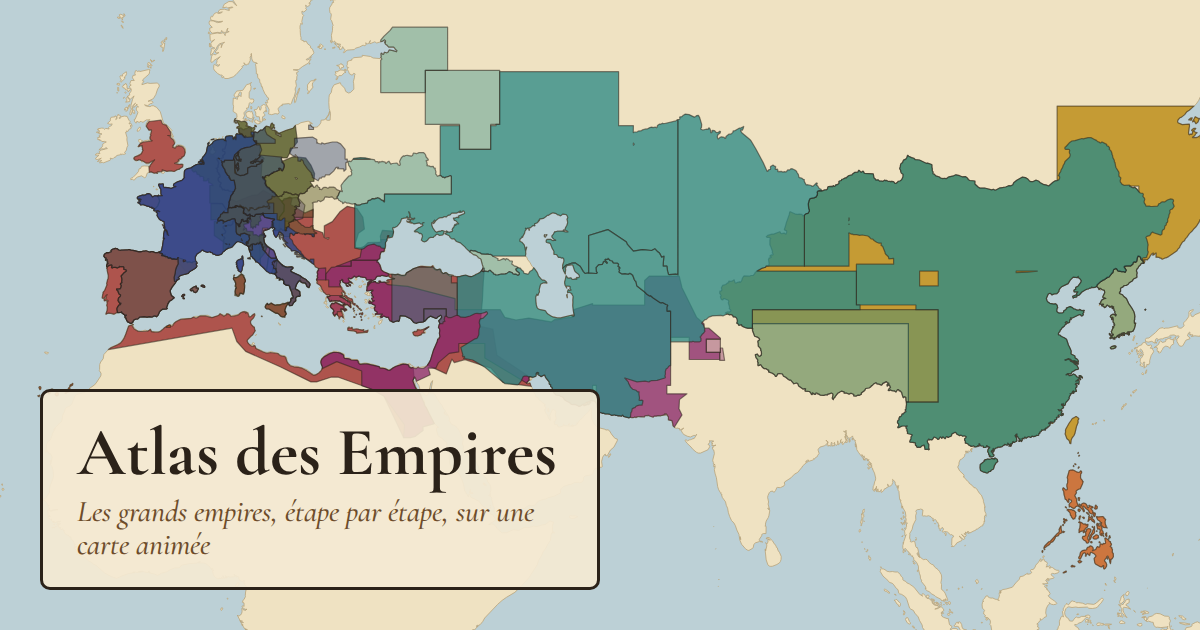
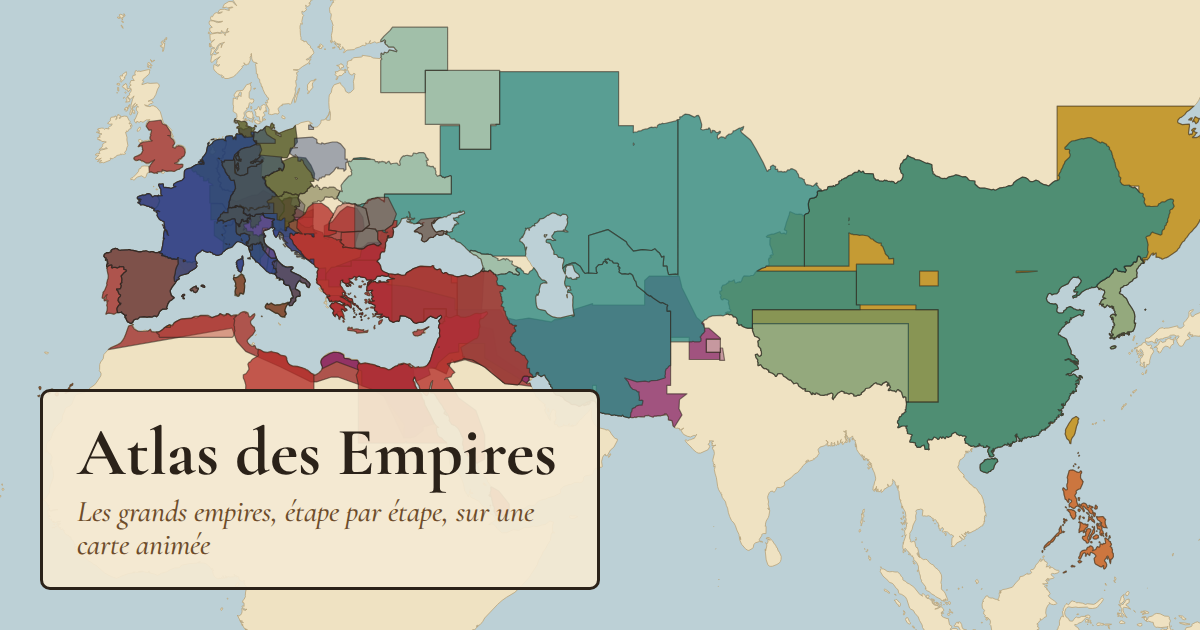
Ottomans 3/3: regions (18), share image, README/CLAUDE.md, skill pitfalls (vitest glob cache, Wikipedia checks)

Changed region(s): [[0.185, 0.3016, 0.4625, 0.6333], [0.1542, 0.5127, 0.2158, 0.5429]]

diff --git a/CLAUDE.md b/CLAUDE.md
@@ -17,13 +17,13 @@ Carte interactive (React + Vite + TS strict + MapLibre GL, relief 3D) qui montre
 - Dev : `npm run dev` (5173, ou config `dev` de `.claude/launch.json`). Prod locale : `npm run serve` (4173).
 - Avant de pousser, comme la CI : `npm run typecheck && npm run lint && npm run format:check && npm test && npm run test:data`, puis `npm run test:e2e` et `npm run check:bundle` si l'UI ou les imports changent.
 - Un seul test : `npx vitest run tests/unit/march.test.ts -t "<nom>"` ; `npx playwright test e2e/map.spec.ts -g "<nom>"`. Les e2e font `npm run build` puis servent sur 4173 (un serveur déjà lancé sur 4173 est réutilisé : il doit être à jour).
-- Données géo : `npm run fetch:data` (une fois, dans `.cache/`), puis `npm run build:data` ou `build:data:<id>` (rome, napoleon, china, mongols, espagne, saint-empire, carolingiens, alexandre). Relancer Vite ensuite.
+- Données géo : `npm run fetch:data` (une fois, dans `.cache/`), puis `npm run build:data` ou `build:data:<id>` (rome, napoleon, china, mongols, espagne, saint-empire, carolingiens, alexandre, ottomans). Relancer Vite ensuite.
 - Agent : `npm run agent` (port 8000), `npm run agent:test`.
 
 ## État (à mettre à jour en fin de session)
-- Sur `main` : Rome, Napoléon, Chine, Mongols, Espagne, Saint-Empire, Carolingiens, Alexandre (cartes de ces trois derniers composées depuis `overrides/<id>/_carto.json` par `scripts/empires/fromCarto.ts`, apogée forcée par `apogee` dans la timeline si la plus grande surface trompe) ; chatbot ADK (le « sage », Gemini ou Claude via `ATLAS_MODEL`) ; apogée sur la frise ; régiments animés (marche proportionnelle à la distance, `src/lib/march.ts`) ; empires contemporains ; carte du monde entière ; formulaire « Votre avis » (mailto) ; villes de départ des armées (`from`, `src/lib/origin.ts`) ; personnages illustres (`data/empires/<id>/people.json`, galerie, outil `chercher_personnage` du sage) ; monuments (`data/monuments.json`, calque, éventail des piles ; 7 merveilles antiques `wonder: true` : icône dorée hors piles, bandeau et filtre en galerie) ; routes commerciales (`data/routes.json`) et catastrophes/guerres (`data/disasters.json` ; zones de guerre découpées sur les terres par `scripts/build-disasters.ts` → `public/data/disaster-areas.geojson`, sous les territoires, masquées sur la carte d'un empire de `belligerentEmpires`) ; vue « Le monde en l'an X » (`src/world/`, `?world=1&year=`) ; quiz du sage (`agent/atlas_agent/quiz.py`, `src/quiz/`) ; comparaison de deux empires (`src/compare/`, `?compare=a,b`, profils `data/empires/<id>/profile.json`) ; inventions révolutionnaires (`data/empires/<id>/inventions.json`, calque, frise, galerie, comparaison, outil du sage) ; piles d'icônes monuments + inventions réunies dans un seul éventail (`src/map/pileFan.ts`) ; capitales des voisins (`data/capitals.json` → `build-neighbors`, points `kind: 'capital'`) et des empires contemporains (`capitalOf` de `data/cities.json`, anneau dans le calque des villes). Cadre des voisins de la Chine et des Mongols : `NEIGHBOR_BOUNDS` dans `scripts/build-neighbors.ts`. Régions survolables et cliquables à l'arrêt (`territory-hover`, `src/map/regionCard.ts`, textes `data/empires/<id>/regions.json`, liste via `scripts/list-regions.ts`). Téléphone (≤ 767 px, `useIsMobile`) : carte plein écran, barre unique avec menu ☰ (`src/panels/MobileMenu.tsx`), tiroir à trois crans (`src/panels/BottomSheet.tsx`), frise compacte (`Timeline` `compact`), voir `docs/ARCHITECTURE.md` §12 ter. Page « Tous les empires » (`src/empires/`, `?empires=1&e=`). Mode « Devine la suite » (`src/guess/`, `player.guess`/`asking`). « Voir la bataille » (`src/battle/`, chunk lazy, canvas) : batailles jouables = clés de `data/battles/troops.json`, scénarios historiques `data/battles/scenarios/<stepId>.json` (contrat `src/types-battle.ts`), sinon simulation générique (`genericScenario`). Combat : poses `vise`/`recharge`/`baionnette` (`src/battle/poses.ts`, 4e paramètre de `soldierSvg`), armes à feu déduites des dessins (`src/battle/weapons.ts`), artillerie (`cannon.ts`), effets (fumée, éclairs, boulets, flèches) calculés depuis `t` dans `engine.ts` ; `action: 'feu' | 'baionnette'` dans les scénarios. Décor : `biome` par bataille dans `troops.json`, mise en page pure `src/battle/layout.ts` (`sceneryLayout`), dessin `scenery.ts` (sol précalculé hors écran, arbres triés avec les figurines). Ouvrir une bataille met la lecture en pause, fige l'étape et la relance à la fermeture si elle tournait (`App.tsx`). Formations historiques (`src/battle/formations.ts` : phalange, tortue, quinconce, tercio, carré, croissant, tirailleurs…) et montures dessinées (`mounts.ts` : chevaux, archers montés, éléphants, chars ; `ships.ts` : galères, galions, vaisseaux, jonques, barques, brûlots), action `feinte`. Batailles navales (Égates, Actium, Armada, Trafalgar, Yamen, Japon 1281, Bạch Đằng) : `ship`, `weather` (tempête : chavirements), `tide` + décor `pieux` (`src/battle/sea.ts`) ; scénario propre à un empire `<empireId>.<stepId>.json`, prioritaire. Galerie : onglet « Unités de bataille » (`src/figures/BattleUnits.tsx`, textes `src/battle/unitInfo.ts`, mini-scènes rendues par le moteur, « Où la voir » via `battlesUsing` de `src/battle/unitUsage.ts`) ; bouton « Tous » dans Inventions et Personnages illustres. Chargement à la demande : index `virtual:empire-index` (`build/empireIndex.ts`), `loadEmpire`/`loadAllEmpires`, `loadWorld` ; budget JS initial 460 Ko gzip (la CI compresse ~2 Ko de plus qu'en local ; SVG des figurines hors du JS initial : `loadSprites()` dans `src/map/sprites.ts`, les calques de la carte l'attendent) (`npm run check:bundle`). Style : Prettier + oxlint (`npm run lint`, `format`). Tests : un par grosse fonctionnalité (18 e2e, données groupées via `itAll`).
+- Sur `main` : Rome, Napoléon, Chine, Mongols, Espagne, Saint-Empire, Carolingiens, Alexandre, Ottomans (cartes de ces quatre derniers composées depuis `overrides/<id>/_carto.json` par `scripts/empires/fromCarto.ts`, apogée forcée par `apogee` dans la timeline si la plus grande surface trompe) ; chatbot ADK (le « sage », Gemini ou Claude via `ATLAS_MODEL`) ; apogée sur la frise ; régiments animés (marche proportionnelle à la distance, `src/lib/march.ts`) ; empires contemporains ; carte du monde entière ; formulaire « Votre avis » (mailto) ; villes de départ des armées (`from`, `src/lib/origin.ts`) ; personnages illustres (`data/empires/<id>/people.json`, galerie, outil `chercher_personnage` du sage) ; monuments (`data/monuments.json`, calque, éventail des piles ; 7 merveilles antiques `wonder: true` : icône dorée hors piles, bandeau et filtre en galerie) ; routes commerciales (`data/routes.json`) et catastrophes/guerres (`data/disasters.json` ; zones de guerre découpées sur les terres par `scripts/build-disasters.ts` → `public/data/disaster-areas.geojson`, sous les territoires, masquées sur la carte d'un empire de `belligerentEmpires`) ; vue « Le monde en l'an X » (`src/world/`, `?world=1&year=`) ; quiz du sage (`agent/atlas_agent/quiz.py`, `src/quiz/`) ; comparaison de deux empires (`src/compare/`, `?compare=a,b`, profils `data/empires/<id>/profile.json`) ; inventions révolutionnaires (`data/empires/<id>/inventions.json`, calque, frise, galerie, comparaison, outil du sage) ; piles d'icônes monuments + inventions réunies dans un seul éventail (`src/map/pileFan.ts`) ; capitales des voisins (`data/capitals.json` → `build-neighbors`, points `kind: 'capital'`) et des empires contemporains (`capitalOf` de `data/cities.json`, anneau dans le calque des villes). Cadre des voisins de la Chine et des Mongols : `NEIGHBOR_BOUNDS` dans `scripts/build-neighbors.ts`. Régions survolables et cliquables à l'arrêt (`territory-hover`, `src/map/regionCard.ts`, textes `data/empires/<id>/regions.json`, liste via `scripts/list-regions.ts`). Téléphone (≤ 767 px, `useIsMobile`) : carte plein écran, barre unique avec menu ☰ (`src/panels/MobileMenu.tsx`), tiroir à trois crans (`src/panels/BottomSheet.tsx`), frise compacte (`Timeline` `compact`), voir `docs/ARCHITECTURE.md` §12 ter. Page « Tous les empires » (`src/empires/`, `?empires=1&e=`). Mode « Devine la suite » (`src/guess/`, `player.guess`/`asking`). « Voir la bataille » (`src/battle/`, chunk lazy, canvas) : batailles jouables = clés de `data/battles/troops.json`, scénarios historiques `data/battles/scenarios/<stepId>.json` (contrat `src/types-battle.ts`), sinon simulation générique (`genericScenario`). Combat : poses `vise`/`recharge`/`baionnette` (`src/battle/poses.ts`, 4e paramètre de `soldierSvg`), armes à feu déduites des dessins (`src/battle/weapons.ts`), artillerie (`cannon.ts`), effets (fumée, éclairs, boulets, flèches) calculés depuis `t` dans `engine.ts` ; `action: 'feu' | 'baionnette'` dans les scénarios. Décor : `biome` par bataille dans `troops.json`, mise en page pure `src/battle/layout.ts` (`sceneryLayout`), dessin `scenery.ts` (sol précalculé hors écran, arbres triés avec les figurines). Ouvrir une bataille met la lecture en pause, fige l'étape et la relance à la fermeture si elle tournait (`App.tsx`). Formations historiques (`src/battle/formations.ts` : phalange, tortue, quinconce, tercio, carré, croissant, tirailleurs…) et montures dessinées (`mounts.ts` : chevaux, archers montés, éléphants, chars ; `ships.ts` : galères, galions, vaisseaux, jonques, barques, brûlots), action `feinte`. Batailles navales (Égates, Actium, Armada, Trafalgar, Yamen, Japon 1281, Bạch Đằng) : `ship`, `weather` (tempête : chavirements), `tide` + décor `pieux` (`src/battle/sea.ts`) ; scénario propre à un empire `<empireId>.<stepId>.json`, prioritaire. Galerie : onglet « Unités de bataille » (`src/figures/BattleUnits.tsx`, textes `src/battle/unitInfo.ts`, mini-scènes rendues par le moteur, « Où la voir » via `battlesUsing` de `src/battle/unitUsage.ts`) ; bouton « Tous » dans Inventions et Personnages illustres. Chargement à la demande : index `virtual:empire-index` (`build/empireIndex.ts`), `loadEmpire`/`loadAllEmpires`, `loadWorld` ; budget JS initial 460 Ko gzip (la CI compresse ~2 Ko de plus qu'en local ; SVG des figurines hors du JS initial : `loadSprites()` dans `src/map/sprites.ts`, les calques de la carte l'attendent) (`npm run check:bundle`). Si un test vitest échoue en `loaders[key] is not a function` après l'ajout d'un empire : vider `node_modules/.vitest-cache` (liste de `import.meta.glob` en cache). Style : Prettier + oxlint (`npm run lint`, `format`). Tests : un par grosse fonctionnalité (18 e2e, données groupées via `itAll`).
 - Hébergement gratuit : `npm run serve` (local + réseau domestique) ; **en ligne** sur GitHub Pages (https://florentgru.github.io/empires-map/, chaque push sur `main` déploie) via `.github/workflows/pages.yml` (build `VITE_STATIC=1`, sans sage ; quiz hors ligne en TS `src/quiz/offline.ts`).
-- SEO : adresses lisibles `/<empire>/<étape>/` et pages de synthèse `/empires/`, `/monuments/`, `/personnages/`, `/inventions/` (`src/lib/seo.ts`, partagé ; anciennes adresses `?empire=&step=` encore comprises, `src/player/urlState.ts`). `npm run build` pré-rend 262 pages HTML (`scripts/prerender.ts` : tête, Open Graph, JSON-LD, article lisible sans JS) + sitemap, robots, llms.txt, 404. Images de partage et icônes : `npm run build:og` (PNG commités dans `public/og/`). Polices hébergées (`@fontsource`, plus de Google Fonts).
+- SEO : adresses lisibles `/<empire>/<étape>/` et pages de synthèse `/empires/`, `/monuments/`, `/personnages/`, `/inventions/` (`src/lib/seo.ts`, partagé ; anciennes adresses `?empire=&step=` encore comprises, `src/player/urlState.ts`). `npm run build` pré-rend 288 pages HTML (`scripts/prerender.ts` : tête, Open Graph, JSON-LD, article lisible sans JS) + sitemap, robots, llms.txt, 404. Images de partage et icônes : `npm run build:og` (PNG commités dans `public/og/`). Polices hébergées (`@fontsource`, plus de Google Fonts).
 - À faire par l'utilisateur : renseigner son adresse dédiée dans `src/config.ts` (`FEEDBACK_EMAIL`, publique)  ; déclarer le site et `sitemap.xml` dans Google Search Console et Bing Webmaster Tools.
 
 ## Règles de travail

diff --git a/README.md b/README.md
@@ -4,7 +4,7 @@
 
 Un planisphère interactif pour voir l'évolution des grands empires de l'histoire. Choisis un empire, appuie sur **Play** et regarde ses frontières évoluer d'une date clé à la suivante : batailles, traités, réformes, chutes. Chaque étape est accompagnée d'une explication détaillée.
 
-Empires disponibles : **l'Empire d'Alexandre le Grand** (336 → 323 av. J.-C.), **Rome** (509 av. J.-C. → 1453), **la Chine** (-1600 → 1912), **l'Empire mongol** (1206 → 1368), **l'Empire espagnol** (1492 → 1976), **l'Empire carolingien** (751 → 888), **le Saint-Empire romain germanique** (962 → 1806) et **l'Empire napoléonien** (1799 → 1815). Site en ligne : https://florentgru.github.io/empires-map/ Le sélecteur liste, par continent, les plus vastes et les plus célèbres empires de l’histoire, à remplir au fil du projet.
+Empires disponibles : **l'Empire d'Alexandre le Grand** (336 → 323 av. J.-C.), **Rome** (509 av. J.-C. → 1453), **la Chine** (-1600 → 1912), **l'Empire mongol** (1206 → 1368), **l'Empire espagnol** (1492 → 1976), **l'Empire carolingien** (751 → 888), **le Saint-Empire romain germanique** (962 → 1806), **l'Empire ottoman** (1299 → 1922) et **l'Empire napoléonien** (1799 → 1815). Site en ligne : https://florentgru.github.io/empires-map/ Le sélecteur liste, par continent, les plus vastes et les plus célèbres empires de l’histoire, à remplir au fil du projet.
 
 ## Fonctionnalités
 

diff --git a/.claude/skills/ajouter-un-empire/SKILL.md b/.claude/skills/ajouter-un-empire/SKILL.md
@@ -61,3 +61,5 @@ Corrige les petits écarts (une ville mal classée, un statut) directement dans 
 - Le Saint-Empire avait la caméra enfermée dans son `bounds` (Europe centrale) : on ne pouvait plus aller voir les empires contemporains. `bounds` ne limite plus la caméra ; ne pas réintroduire de borne.
 - Ne jamais regénérer les autres empires : `git status` doit rester vide pour eux.
 - Sous Windows, `npm run fetch:data` peut lancer le `bash` de WSL au lieu de Git Bash : lancer directement `bash scripts/fetch-basemaps.sh` depuis Git Bash.
+- Après création de `data/empires/<id>/`, des tests vitest peuvent échouer en `loaders[key] is not a function` : la liste de `import.meta.glob` est en cache dans `node_modules/.vitest-cache` (clé = contenu du fichier source). `rm -rf node_modules/.vitest-cache` ; la CI n'est pas touchée.
+- Les URL Wikipédia : `curl` en boucle déclenche des 429 ; vérifier les titres en un seul appel à l'API (`action=query&titles=A|B|…&redirects=1`, pages `missing`), et écarter les pages d'homonymie (`prop=pageprops`).
